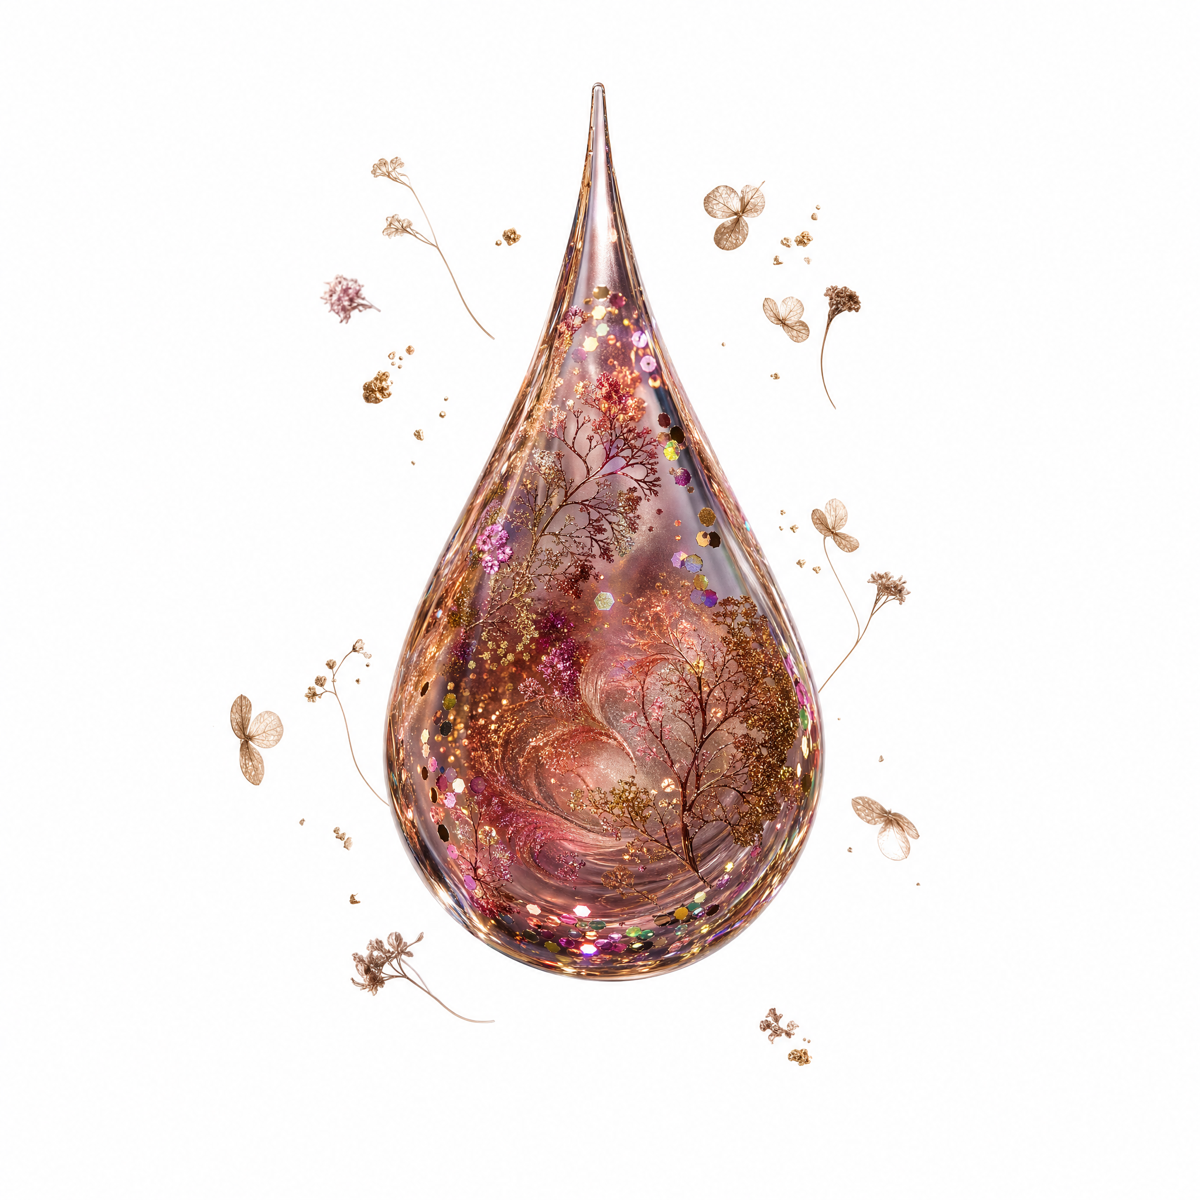
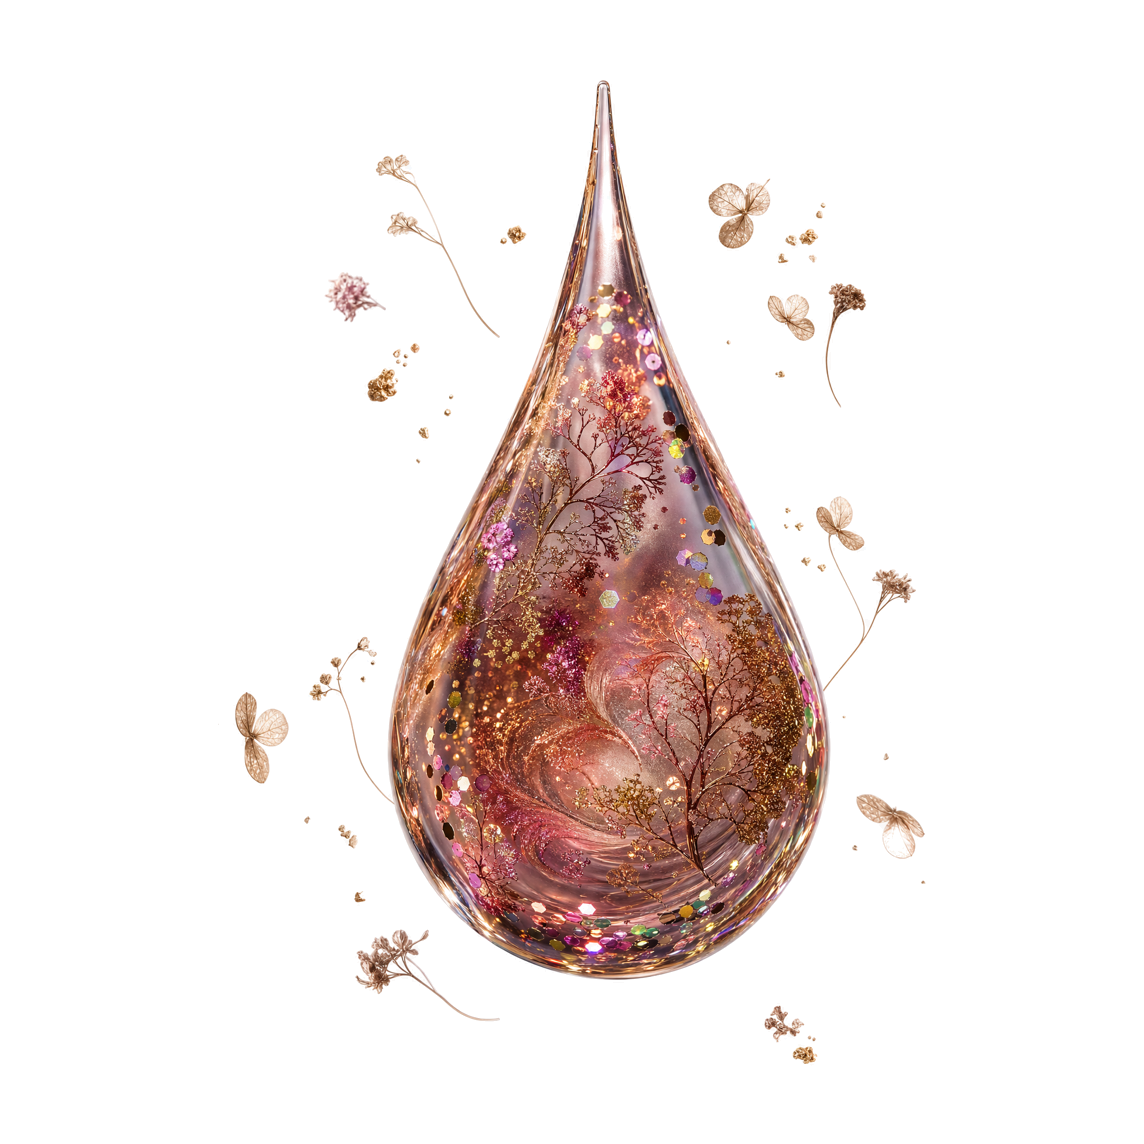
Reframe the three drops so they come back to full size
With the files as they were, each drop sat inside a different amount of
white margin, so object-fit:contain left them small and high, with the
picture's own near-white showing as a pale rectangle.

Fixed in the files rather than with CSS scale hacks: each is recropped
to a square in which the drop occupies 86 per cent of the height, and
anything at 250 or above goes to pure white, which removes the visible
rectangle. The three are now framed identically, so no per-image scaling
is left in the stylesheet.

The figure goes back to the size it had before: 374px at a 1440 window,
so a 322px drop, against the 324 to 408px the old packshots reached once
they were blown up.

Changed region(s): [[0.1836, 0.0612, 0.826, 0.9178], [0.2753, 0.2142, 0.3671, 0.3671], [0.7037, 0.9178, 0.7343, 0.9484]]

diff --git a/css/ingredients.css b/css/ingredients.css
@@ -10,7 +10,7 @@
 
 .ing-stage{position:relative;display:grid;grid-template-columns:1fr 1fr;gap:clamp(24px,4vw,56px);align-items:stretch;min-height:min(48vh,430px);margin-top:clamp(18px,2.4vw,28px)}
 .ing-left{position:relative;display:flex;flex-direction:column}
-.ing-figure{grid-column:2;grid-row:1;position:relative;width:clamp(150px,17vw,240px);margin:clamp(-95px,-8vw,-65px) auto 0;align-self:start;z-index:1;perspective:1100px;pointer-events:none}
+.ing-figure{grid-column:2;grid-row:1;position:relative;width:clamp(200px,26vw,380px);margin:clamp(-70px,-5.5vw,-36px) auto 0;align-self:start;z-index:1;perspective:1100px;pointer-events:none}
 
 /* floating product */
 .ing-figure-OLD{display:none}
@@ -25,8 +25,7 @@
 .ing-float img{position:absolute;inset:0;width:100%;height:100%;object-fit:contain;display:block;
   opacity:0;transition:opacity .6s ease;transform-origin:center center}
 .ing-float img.active{opacity:1}
-.ing-float img[data-i="1"]{transform:scale(.99)}
-.ing-float img[data-i="2"]{transform:scale(1.46)}
+/* nessuna scala per immagine: i tre file hanno la goccia all'86% di un quadrato */
 
 
 /* caption bottom-left */
@@ -127,8 +126,7 @@
 
 @media(max-width:600px){
   .ing-figure{width:min(36vw,160px)}
-  .ing-float img[data-i="1"]{transform:scale(.99)}
-  .ing-float img[data-i="2"]{transform:scale(1.46)}
+
   .ing-name{font-size:clamp(22px,6vw,32px)}
   .ing-finder{flex-direction:row;flex-wrap:wrap;gap:12px 14px}
   .ing-finder .if-ic{width:40px;height:40px}
